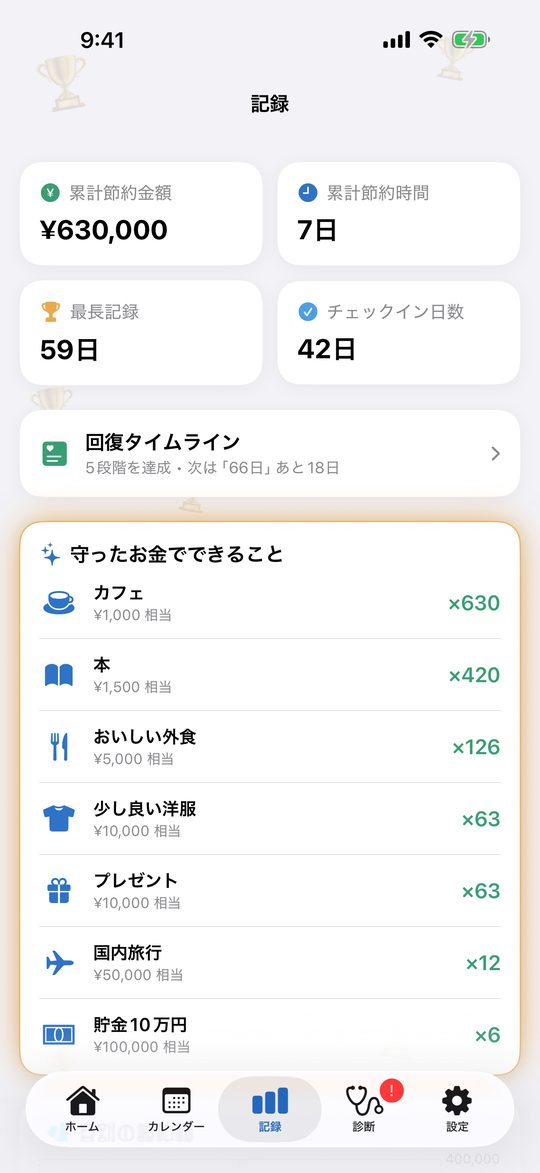
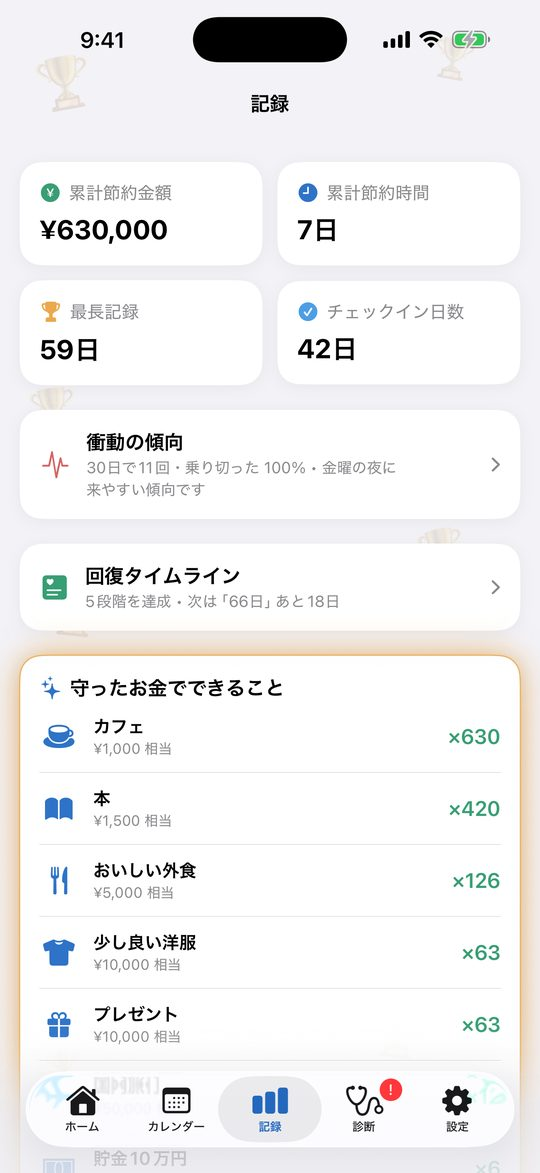
lp: 禁パチS 1.6.0 の機能追加を反映（衝動の記録と傾向／ウィジェットからチェックイン／初週の伴走通知）

diff --git a/kinpachis/index.html b/kinpachis/index.html
@@ -124,6 +124,7 @@ footer .notice{font-size:11.5px;margin-top:10px}
 <figure class="shot"><img src="img/ss-07.jpg" alt="禁パチS（KinpachiSensei） の画面 7" loading="lazy" width="540"></figure>
 <figure class="shot"><img src="img/ss-08.jpg" alt="禁パチS（KinpachiSensei） の画面 8" loading="lazy" width="540"></figure>
 <figure class="shot"><img src="img/ss-09.jpg" alt="禁パチS（KinpachiSensei） の画面 9" loading="lazy" width="540"></figure>
+<figure class="shot"><img src="img/ss-10.jpg" alt="禁パチS（KinpachiSensei） の画面 10" loading="lazy" width="540"></figure>
   </div>
 </div></section>
 
@@ -153,7 +154,9 @@ footer .notice{font-size:11.5px;margin-top:10px}
 <li>依存度セルフチェック：12問で今の距離感を確認。月に1度の再チェックで推移も見られます</li>
 <li>回復タイムライン：禁パチ◯日目で心と生活がどう回復していくかを確認</li>
 <li>節目のお祝い：3日・7日・30日・100日…到達ごとに達成を後押し。達成カードをそのままシェア</li>
-<li>ホーム画面ウィジェット：「禁パチ◯日目」と守ったお金をホーム画面に。日数は毎日0時に自動で進みます（中サイズは使い道目標の進み具合も表示）</li>
+<li>ホーム画面ウィジェット：「禁パチ◯日目」と守ったお金をホーム画面に。「今日も行かなかった」ボタンで、アプリを開かずにチェックインできます。ロック画面にも置けます（中サイズは使い道目標の進み具合も表示）</li>
+<li>衝動の記録と傾向：SOS を閉じるときに「どこで・きっかけ」を1タップで記録。来やすい曜日・時間帯、よくあるきっかけが記録タブで見えます</li>
+<li>初週の伴走通知：始めてから7日間、毎晩その日の段階を1つずつお知らせ。いちばん大変な最初の1週間を一緒に乗り切ります</li>
 <li>バックアップと復元：記録をファイルに書き出して、機種変更でもそのまま引き継げます</li>
 </ul>
 <h2>安心の設計</h2>
